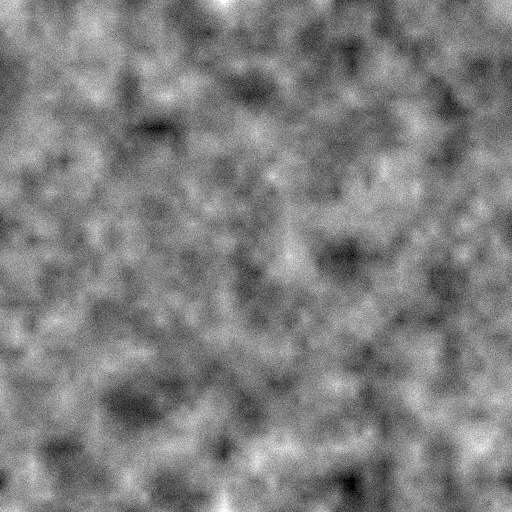
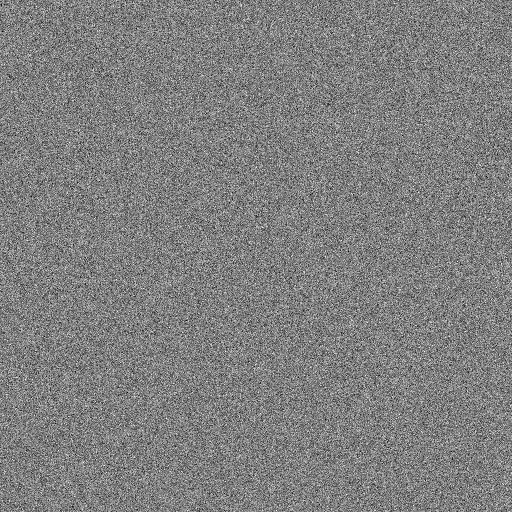
Revert proto grain to sharp DPR-matched tiles.
The multi-scale value-noise pass produced soft cloudy blobs; restore the per-pixel Gaussian generator, hard-light blend, and 2.5dppx media-query asset swap from the prior good state.

diff --git a/app/proto.css b/app/proto.css
@@ -222,12 +222,14 @@ html[data-proto-page]:has(.doephone-mobile-root) .proto-invest-hero-backdrop [ar
 
 html[data-proto-page] {
   --proto-grain-image: url("/proto-grain-tile.png");
-  --proto-grain-image: image-set(
-    url("/proto-grain-tile.png") 2x,
-    url("/proto-grain-tile-3x.png") 3x
-  );
-  --proto-grain-opacity: 0.31;
+  --proto-grain-opacity: 0.32;
   --proto-grain-tile-size: 256px;
+}
+
+@media (-webkit-min-device-pixel-ratio: 2.5), (min-resolution: 2.5dppx) {
+  html[data-proto-page] {
+    --proto-grain-image: url("/proto-grain-tile-3x.png");
+  }
 }
 
 html[data-proto-page] .proto-grain-layer,
@@ -241,27 +243,6 @@ html[data-proto-page] .proto-desktop-carousel-backdrop > div.z-\[1\] {
   background-size: var(--proto-grain-tile-size) var(--proto-grain-tile-size) !important;
   background-repeat: repeat !important;
   image-rendering: auto !important;
-}
-
-/* Stagger tile phase per band so repeats are less obvious across sections. */
-html[data-proto-page] .doephone-hero-backdrop .proto-grain-layer,
-html[data-proto-page] .doephone-hero-backdrop > div.z-\[1\] {
-  background-position: 41px 97px !important;
-}
-
-html[data-proto-page] .doephone-carousel-backdrop .proto-grain-layer,
-html[data-proto-page] .doephone-carousel-backdrop > div.z-\[1\] {
-  background-position: 118px 23px !important;
-}
-
-html[data-proto-page] .proto-invest-hero-backdrop .proto-grain-layer,
-html[data-proto-page] .proto-invest-hero-backdrop > div.z-\[1\] {
-  background-position: 67px 144px !important;
-}
-
-html[data-proto-page] .proto-desktop-carousel-backdrop .proto-grain-layer,
-html[data-proto-page] .proto-desktop-carousel-backdrop > div.z-\[1\] {
-  background-position: 29px 61px !important;
 }
 
 /* Feature box UI mocks — display-only (no selection or control clicks). */

diff --git a/components/workflow-carousel-design-backdrop.tsx b/components/workflow-carousel-design-backdrop.tsx
@@ -339,7 +339,10 @@ export function WorkflowCarouselDesignBackdrop({
           }`.trim()}
           style={
             grainBackgroundImage
-              ? undefined
+              ? {
+                  backgroundSize: grainBackgroundSize,
+                  backgroundRepeat: "repeat",
+                }
               : {
                   ...WORKFLOW_CAROUSEL_GRAIN_STYLE,
                   backgroundSize: grainBackgroundSize,

diff --git a/lib/proto/proto-phone-grain.ts b/lib/proto/proto-phone-grain.ts
@@ -7,6 +7,6 @@ export const PROTO_GRAIN_BG_3X = 'url("/proto-grain-tile-3x.png")';
 export const PROTO_GRAIN_SIZE = `${PROTO_GRAIN_TILE_PX}px ${PROTO_GRAIN_TILE_PX}px`;
 
 /** Layer opacity — hard-light blend in proto.css */
-export const PROTO_GRAIN_OPACITY = 0.31;
+export const PROTO_GRAIN_OPACITY = 0.32;
 
 export const PROTO_PHONE_GRAIN_BG = PROTO_GRAIN_BG;

diff --git a/scripts/generate-proto-grain.py b/scripts/generate-proto-grain.py
@@ -24,60 +24,19 @@ def png_chunk(tag: bytes, data: bytes) -> bytes:
     )
 
 
-def lerp(a: float, b: float, t: float) -> float:
-    return a + (b - a) * t
-
-
-def sample_lattice(lattice: list[list[float]], x: float, y: float, n: int) -> float:
-    x0 = int(x) % n
-    y0 = int(y) % n
-    x1 = (x0 + 1) % n
-    y1 = (y0 + 1) % n
-    fx = x - int(x)
-    fy = y - int(y)
-    return lerp(
-        lerp(lattice[y0][x0], lattice[y0][x1], fx),
-        lerp(lattice[y1][x0], lattice[y1][x1], fx),
-        fy,
-    )
-
-
-def make_lattice(n: int, rng: random.Random, spread: float) -> list[list[float]]:
-    return [[rng.gauss(0, spread) for _ in range(n)] for _ in range(n)]
-
-
-def film_grain_pixel(
-    x: int,
-    y: int,
-    size: int,
-    lattices: list[tuple[list[list[float]], int, float]],
-    fine_rng: random.Random,
-) -> int:
-    value = 128.0
-    for lattice, cells, weight in lattices:
-        lx = (x / size) * cells
-        ly = (y / size) * cells
-        value += sample_lattice(lattice, lx, ly, cells) * weight
-    value += fine_rng.gauss(0, 11)
-    return int(max(0, min(255, value)))
+def film_grain_value(rng: random.Random) -> int:
+    fine = rng.gauss(0, 22)
+    coarse = rng.gauss(0, 38)
+    return int(max(0, min(255, 128 + fine + coarse * 0.62)))
 
 
 def write_grain_png(path: Path, size: int, seed: int = GRAIN_SEED) -> None:
     rng = random.Random(seed)
-    fine_rng = random.Random(seed ^ 0x9E3779B9)
-
-    # Toroidal value-noise octaves — tiles seamlessly, reads as film grain not digital noise.
-    lattices: list[tuple[list[list[float]], int, float]] = [
-        (make_lattice(16, rng, 1.0), 16, 34.0),
-        (make_lattice(32, rng, 1.0), 32, 20.0),
-        (make_lattice(64, rng, 1.0), 64, 9.5),
-    ]
-
     rows: list[bytes] = []
-    for y in range(size):
+    for _ in range(size):
         row = b"\x00"
-        for x in range(size):
-            v = film_grain_pixel(x, y, size, lattices, fine_rng)
+        for _ in range(size):
+            v = film_grain_value(rng)
             row += bytes((v, v, v, 255))
         rows.append(row)
 